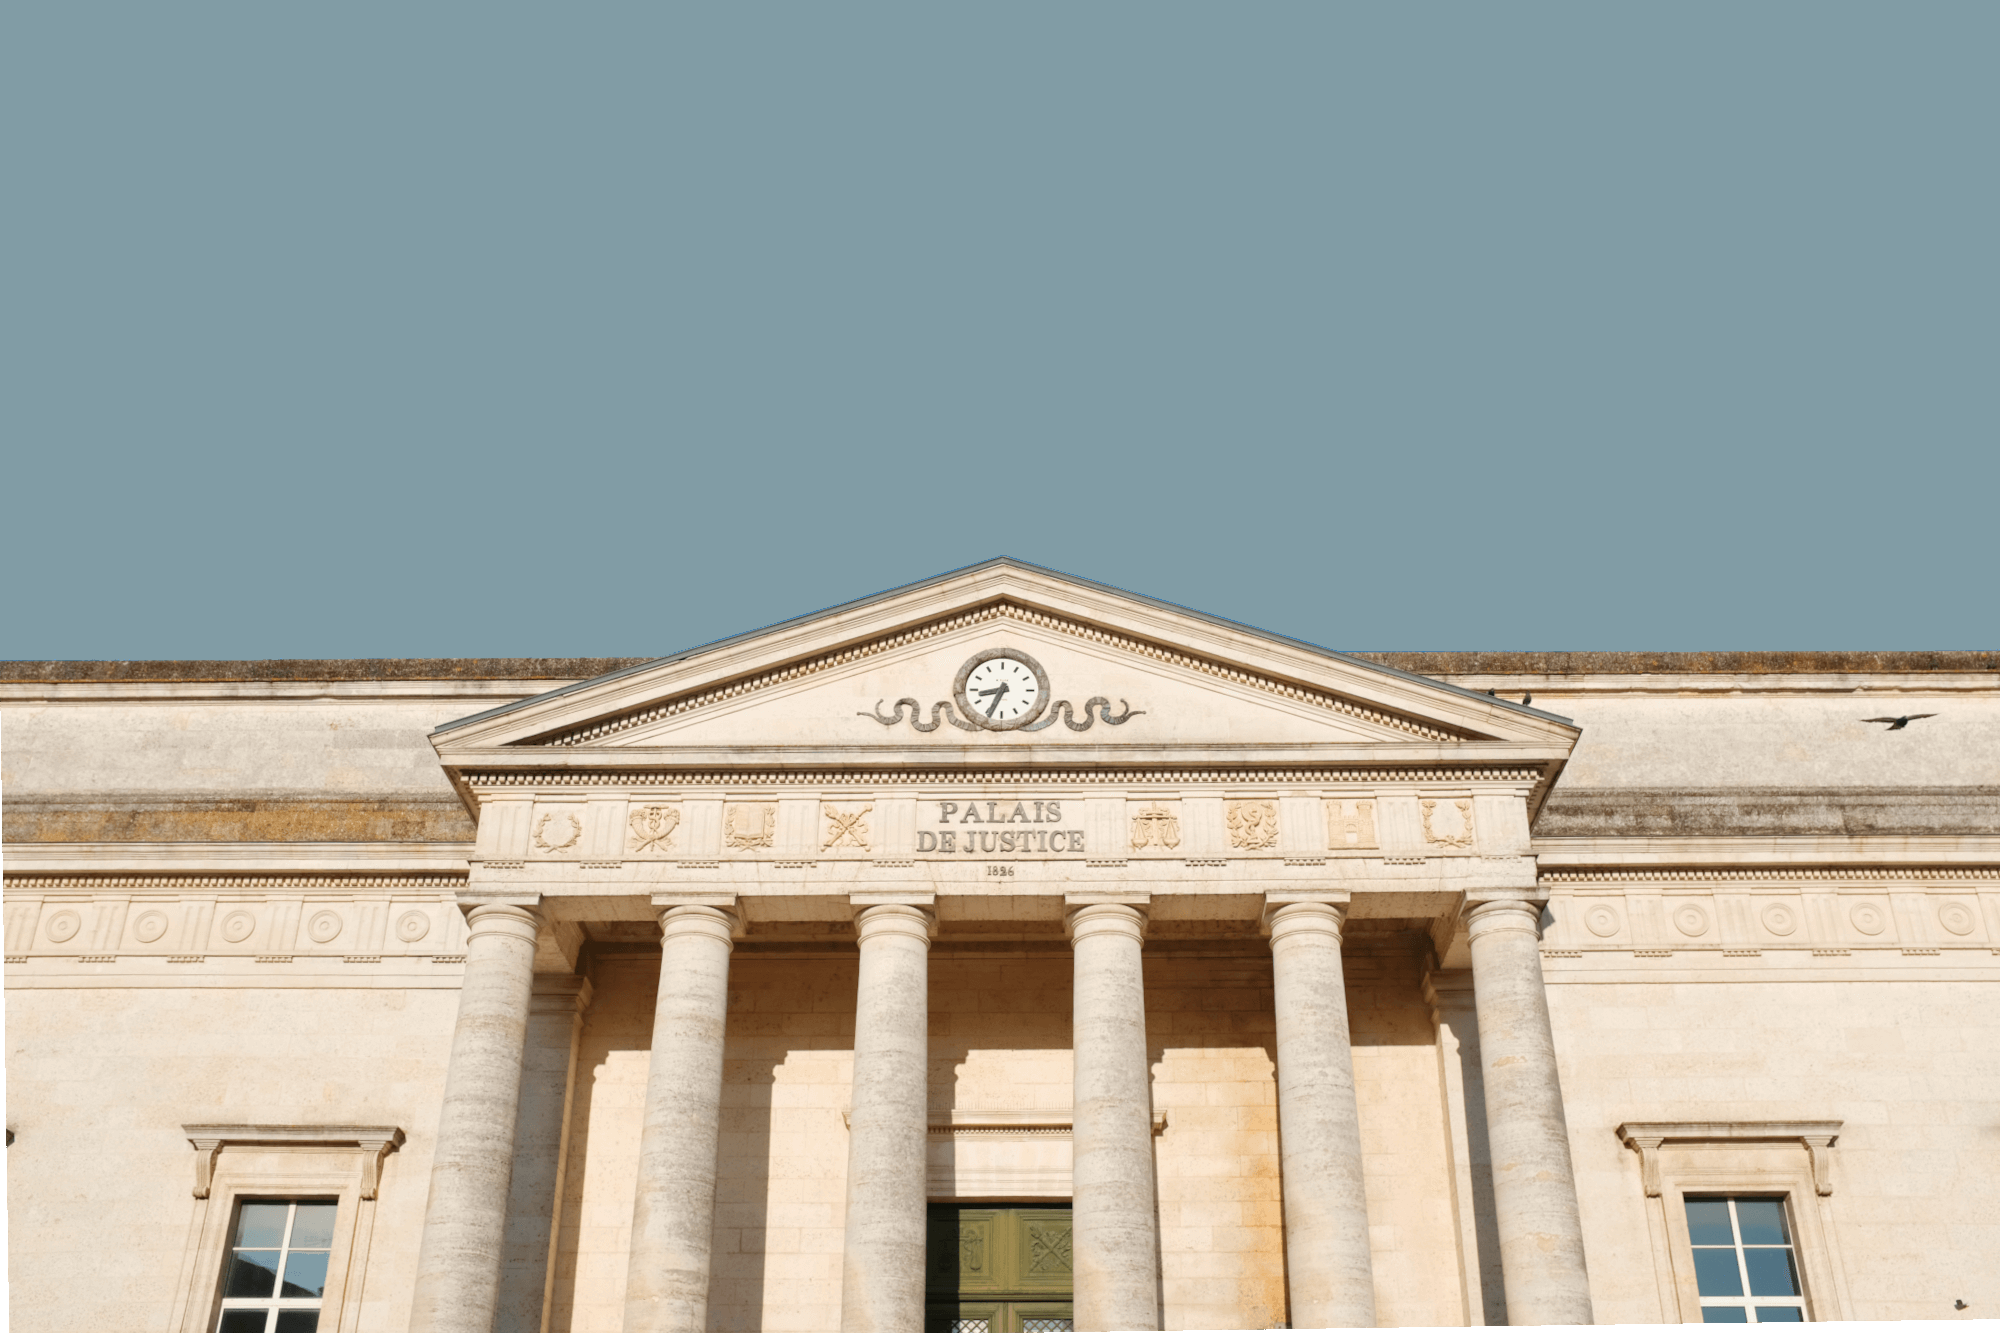
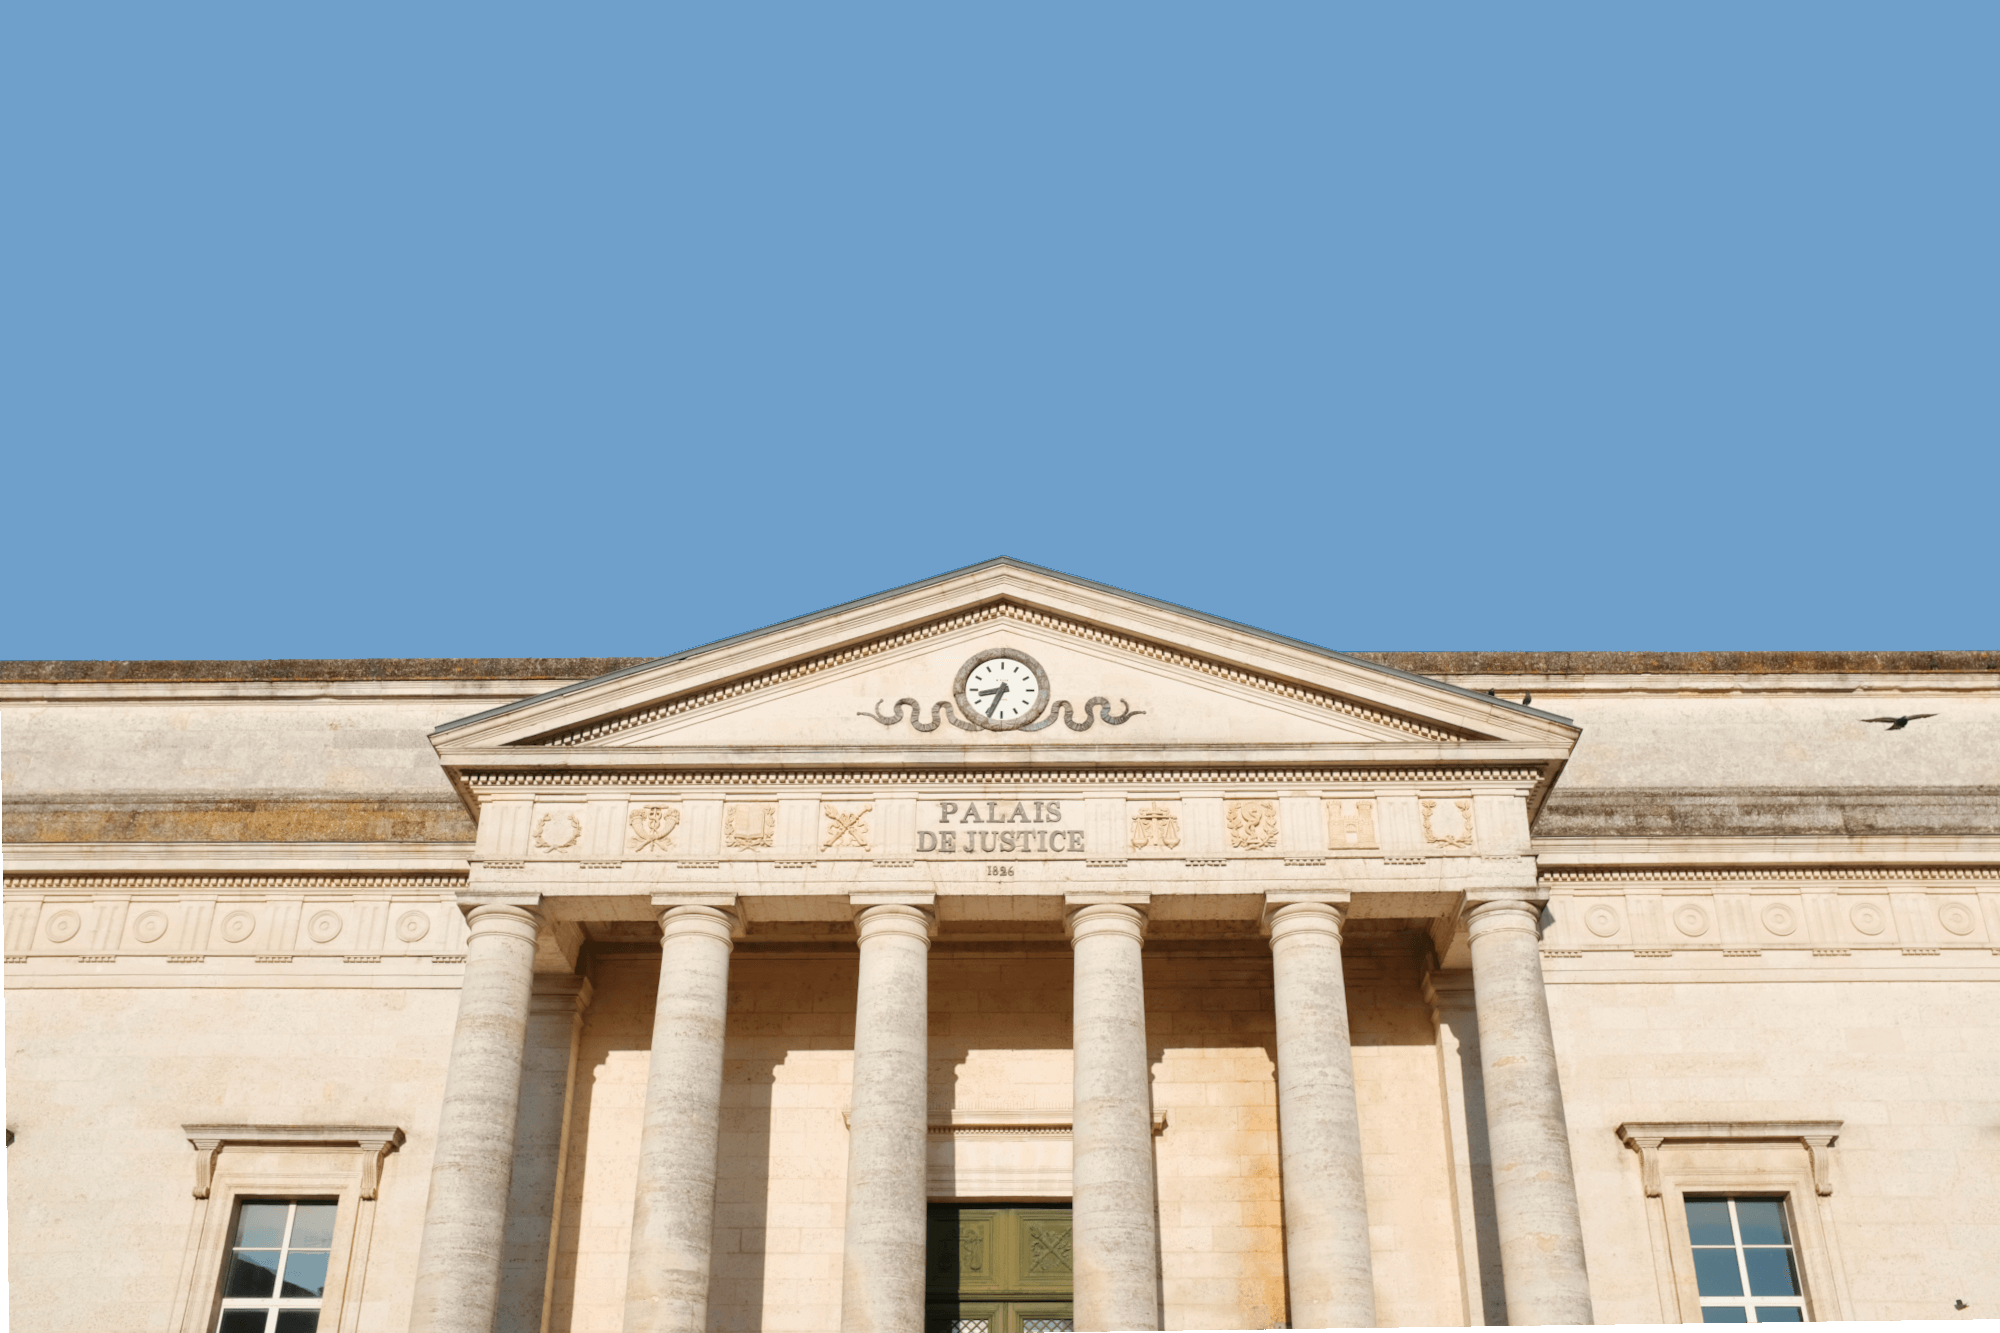
change color header

diff --git a/src/static/css/style.css b/src/static/css/style.css
@@ -101,7 +101,7 @@ nav {
     top: 0;
     z-index: 10;
     height: 7vh;
-    background-color: #819ca5;
+    background-color: #83a9ca;
     box-shadow: 0 0.5rem 0.5rem rgba(0, 0, 0, 20%);
 }
 
@@ -268,7 +268,7 @@ footer {
     padding: 3rem 5rem;
     color: #fff;
     text-align: center;
-    background-color: #819ca5;
+    background-color: #83a9ca;
 }
 
 footer i {
@@ -638,7 +638,7 @@ a > img {
     }
 
     .menuopen header {
-        background-color: #819ca5;
+        background-color: #83a9ca;
         background-image: none;
     }
 
